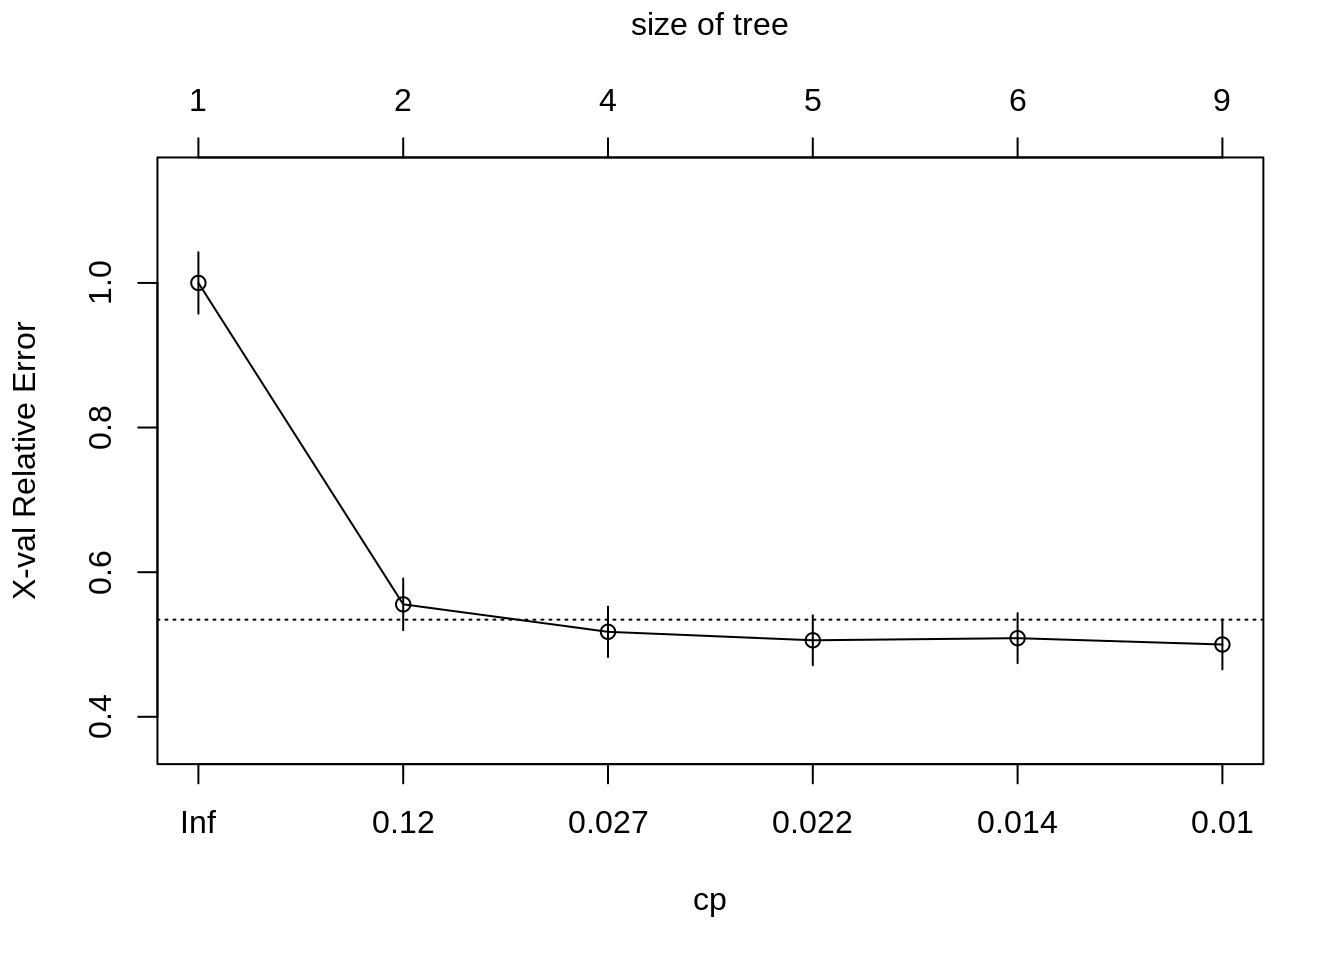
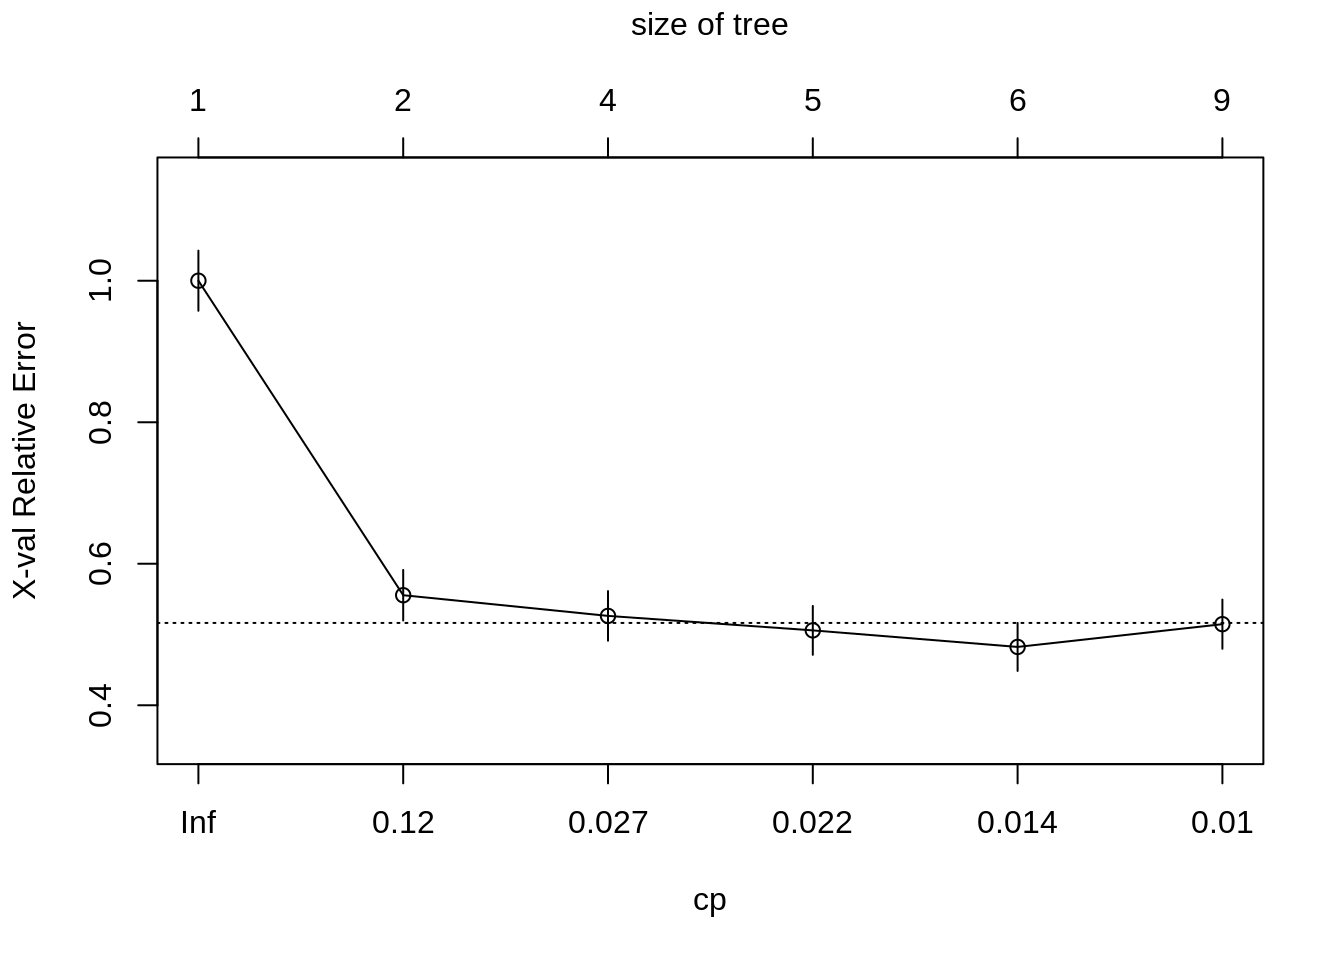
Deploy lebebr01/stat_thinking to github.com/lebebr01/stat_thinking.git:master

diff --git a/docs/descriptive-statistics-numerically-describing-the-sample-data.html b/docs/descriptive-statistics-numerically-describing-the-sample-data.html
@@ -190,65 +190,10 @@ code > span.in { color: #60a0b0; font-weight: bold; font-style: italic; } /* Inf
 <p>Data visualization is often the first step on the statistical journey to explore a research question. However, this is usually not where the journey stops, instead additional analyses are often performed to learn more about the trends and structure in the data. In this chapter we will learn about methods that useful for numerically summarizing a sample of data. These methods are commonly referred to as <em>descriptive statistics</em>.</p>
 <p>We will again use the data provided in the file <em>College-scorecard-clean.csv</em> to examine admissions rates for 2,019 institutions of higher education. As in the previous chapter, before we begin the analysis, we will load several packages that include functions we will use in the chapter. We also import the College Scorecard data using the <code>read_csv()</code> function.</p>
 <div class="sourceCode"><pre class="sourceCode r"><code class="sourceCode r"><span class="co"># Load packages</span>
-<span class="kw">library</span>(tidyverse)</code></pre></div>
-<pre><code>## ── Attaching packages ────────────────────────────────── tidyverse 1.2.1 ──</code></pre>
-<pre><code>## ✔ ggplot2 3.2.1     ✔ purrr   0.3.2
-## ✔ tibble  2.1.3     ✔ dplyr   0.8.3
-## ✔ tidyr   1.0.0     ✔ stringr 1.4.0
-## ✔ readr   1.3.1     ✔ forcats 0.4.0</code></pre>
-<pre><code>## ── Conflicts ───────────────────────────────────── tidyverse_conflicts() ──
-## ✖ dplyr::filter() masks stats::filter()
-## ✖ dplyr::lag()    masks stats::lag()</code></pre>
-<div class="sourceCode"><pre class="sourceCode r"><code class="sourceCode r"><span class="kw">library</span>(ggformula)</code></pre></div>
-<pre><code>## Loading required package: ggstance</code></pre>
-<pre><code>## 
-## Attaching package: &#39;ggstance&#39;</code></pre>
-<pre><code>## The following objects are masked from &#39;package:ggplot2&#39;:
-## 
-##     geom_errorbarh, GeomErrorbarh</code></pre>
-<pre><code>## 
-## New to ggformula?  Try the tutorials: 
-##  learnr::run_tutorial(&quot;introduction&quot;, package = &quot;ggformula&quot;)
-##  learnr::run_tutorial(&quot;refining&quot;, package = &quot;ggformula&quot;)</code></pre>
-<div class="sourceCode"><pre class="sourceCode r"><code class="sourceCode r"><span class="kw">library</span>(mosaic)</code></pre></div>
-<pre><code>## Loading required package: lattice</code></pre>
-<pre><code>## Loading required package: mosaicData</code></pre>
-<pre><code>## Loading required package: Matrix</code></pre>
-<pre><code>## 
-## Attaching package: &#39;Matrix&#39;</code></pre>
-<pre><code>## The following objects are masked from &#39;package:tidyr&#39;:
-## 
-##     expand, pack, unpack</code></pre>
-<pre><code>## Registered S3 method overwritten by &#39;mosaic&#39;:
-##   method                           from   
-##   fortify.SpatialPolygonsDataFrame ggplot2</code></pre>
-<pre><code>## 
-## The &#39;mosaic&#39; package masks several functions from core packages in order to add 
-## additional features.  The original behavior of these functions should not be affected by this.
-## 
-## Note: If you use the Matrix package, be sure to load it BEFORE loading mosaic.</code></pre>
-<pre><code>## 
-## Attaching package: &#39;mosaic&#39;</code></pre>
-<pre><code>## The following object is masked from &#39;package:Matrix&#39;:
-## 
-##     mean</code></pre>
-<pre><code>## The following objects are masked from &#39;package:dplyr&#39;:
-## 
-##     count, do, tally</code></pre>
-<pre><code>## The following object is masked from &#39;package:purrr&#39;:
-## 
-##     cross</code></pre>
-<pre><code>## The following object is masked from &#39;package:ggplot2&#39;:
-## 
-##     stat</code></pre>
-<pre><code>## The following objects are masked from &#39;package:stats&#39;:
-## 
-##     binom.test, cor, cor.test, cov, fivenum, IQR, median,
-##     prop.test, quantile, sd, t.test, var</code></pre>
-<pre><code>## The following objects are masked from &#39;package:base&#39;:
-## 
-##     max, mean, min, prod, range, sample, sum</code></pre>
-<div class="sourceCode"><pre class="sourceCode r"><code class="sourceCode r"><span class="kw">library</span>(statthink)
+<span class="kw">library</span>(tidyverse)
+<span class="kw">library</span>(ggformula)
+<span class="kw">library</span>(mosaic)
+<span class="kw">library</span>(statthink)
 
 <span class="co"># Set theme for plots</span>
 <span class="kw">theme_set</span>(<span class="kw">theme_statthinking</span>())
@@ -257,28 +202,9 @@ code > span.in { color: #60a0b0; font-weight: bold; font-style: italic; } /* Inf
 colleges &lt;-<span class="st"> </span><span class="kw">read_csv</span>(
   <span class="dt">file =</span> <span class="st">&quot;https://raw.githubusercontent.com/lebebr01/statthink/master/data-raw/College-scorecard-clean.csv&quot;</span>, 
   <span class="dt">guess_max =</span> <span class="dv">10000</span>
-  )</code></pre></div>
-<pre><code>## Parsed with column specification:
-## cols(
-##   instnm = col_character(),
-##   city = col_character(),
-##   stabbr = col_character(),
-##   preddeg = col_character(),
-##   region = col_character(),
-##   locale = col_character(),
-##   adm_rate = col_double(),
-##   actcmmid = col_double(),
-##   ugds = col_double(),
-##   costt4_a = col_double(),
-##   costt4_p = col_double(),
-##   tuitionfee_in = col_double(),
-##   tuitionfee_out = col_double(),
-##   debt_mdn = col_double(),
-##   grad_debt_mdn = col_double(),
-##   female = col_double(),
-##   bachelor_degree = col_double()
-## )</code></pre>
-<div class="sourceCode"><pre class="sourceCode r"><code class="sourceCode r"><span class="co"># View first six cases</span>
+  )
+
+<span class="co"># View first six cases</span>
 <span class="kw">head</span>(colleges)</code></pre></div>
 <pre><code>## # A tibble: 6 x 17
 ##   instnm city  stabbr preddeg region locale adm_rate actcmmid  ugds

diff --git a/docs/classification.html b/docs/classification.html
@@ -324,10 +324,10 @@ titanic &lt;-<span class="st"> </span><span class="kw">bind_rows</span>(titanic_
 ##         CP nsplit rel error  xerror     xstd
 ## 1 0.444444      0   1.00000 1.00000 0.042446
 ## 2 0.030702      1   0.55556 0.55556 0.035750
-## 3 0.023392      3   0.49415 0.51754 0.034823
+## 3 0.023392      3   0.49415 0.52632 0.035043
 ## 4 0.020468      4   0.47076 0.50585 0.034524
-## 5 0.010234      5   0.45029 0.50877 0.034599
-## 6 0.010000      8   0.41813 0.50000 0.034372</code></pre>
+## 5 0.010234      5   0.45029 0.48246 0.033904
+## 6 0.010000      8   0.41813 0.51462 0.034749</code></pre>
 <div class="sourceCode"><pre class="sourceCode r"><code class="sourceCode r"><span class="kw">plotcp</span>(class_tree)</code></pre></div>
 <p><img src="05-classification_files/figure-html/unnamed-chunk-6-1.png" width="672" /></p>
 <div class="sourceCode"><pre class="sourceCode r"><code class="sourceCode r">prune_class_tree &lt;-<span class="st"> </span><span class="kw">prune</span>(class_tree, <span class="dt">cp =</span> .<span class="dv">02</span>)

diff --git a/docs/03-descriptive.md b/docs/03-descriptive.md
@@ -9,135 +9,8 @@ We will again use the data provided in the file *College-scorecard-clean.csv* to
 ```r
 # Load packages
 library(tidyverse)
-```
-
-```
-## ── Attaching packages ────────────────────────────────── tidyverse 1.2.1 ──
-```
-
-```
-## ✔ ggplot2 3.2.1     ✔ purrr   0.3.2
-## ✔ tibble  2.1.3     ✔ dplyr   0.8.3
-## ✔ tidyr   1.0.0     ✔ stringr 1.4.0
-## ✔ readr   1.3.1     ✔ forcats 0.4.0
-```
-
-```
-## ── Conflicts ───────────────────────────────────── tidyverse_conflicts() ──
-## ✖ dplyr::filter() masks stats::filter()
-## ✖ dplyr::lag()    masks stats::lag()
-```
-
-```r
 library(ggformula)
-```
-
-```
-## Loading required package: ggstance
-```
-
-```
-## 
-## Attaching package: 'ggstance'
-```
-
-```
-## The following objects are masked from 'package:ggplot2':
-## 
-##     geom_errorbarh, GeomErrorbarh
-```
-
-```
-## 
-## New to ggformula?  Try the tutorials: 
-## 	learnr::run_tutorial("introduction", package = "ggformula")
-## 	learnr::run_tutorial("refining", package = "ggformula")
-```
-
-```r
 library(mosaic)
-```
-
-```
-## Loading required package: lattice
-```
-
-```
-## Loading required package: mosaicData
-```
-
-```
-## Loading required package: Matrix
-```
-
-```
-## 
-## Attaching package: 'Matrix'
-```
-
-```
-## The following objects are masked from 'package:tidyr':
-## 
-##     expand, pack, unpack
-```
-
-```
-## Registered S3 method overwritten by 'mosaic':
-##   method                           from   
-##   fortify.SpatialPolygonsDataFrame ggplot2
-```
-
-```
-## 
-## The 'mosaic' package masks several functions from core packages in order to add 
-## additional features.  The original behavior of these functions should not be affected by this.
-## 
-## Note: If you use the Matrix package, be sure to load it BEFORE loading mosaic.
-```
-
-```
-## 
-## Attaching package: 'mosaic'
-```
-
-```
-## The following object is masked from 'package:Matrix':
-## 
-##     mean
-```
-
-```
-## The following objects are masked from 'package:dplyr':
-## 
-##     count, do, tally
-```
-
-```
-## The following object is masked from 'package:purrr':
-## 
-##     cross
-```
-
-```
-## The following object is masked from 'package:ggplot2':
-## 
-##     stat
-```
-
-```
-## The following objects are masked from 'package:stats':
-## 
-##     binom.test, cor, cor.test, cov, fivenum, IQR, median,
-##     prop.test, quantile, sd, t.test, var
-```
-
-```
-## The following objects are masked from 'package:base':
-## 
-##     max, mean, min, prod, range, sample, sum
-```
-
-```r
 library(statthink)
 
 # Set theme for plots
@@ -148,32 +21,7 @@ colleges <- read_csv(
   file = "https://raw.githubusercontent.com/lebebr01/statthink/master/data-raw/College-scorecard-clean.csv", 
   guess_max = 10000
   )
-```
 
-```
-## Parsed with column specification:
-## cols(
-##   instnm = col_character(),
-##   city = col_character(),
-##   stabbr = col_character(),
-##   preddeg = col_character(),
-##   region = col_character(),
-##   locale = col_character(),
-##   adm_rate = col_double(),
-##   actcmmid = col_double(),
-##   ugds = col_double(),
-##   costt4_a = col_double(),
-##   costt4_p = col_double(),
-##   tuitionfee_in = col_double(),
-##   tuitionfee_out = col_double(),
-##   debt_mdn = col_double(),
-##   grad_debt_mdn = col_double(),
-##   female = col_double(),
-##   bachelor_degree = col_double()
-## )
-```
-
-```r
 # View first six cases
 head(colleges)
 ```

diff --git a/docs/05-classification.md b/docs/05-classification.md
@@ -249,10 +249,10 @@ printcp(class_tree)
 ##         CP nsplit rel error  xerror     xstd
 ## 1 0.444444      0   1.00000 1.00000 0.042446
 ## 2 0.030702      1   0.55556 0.55556 0.035750
-## 3 0.023392      3   0.49415 0.51754 0.034823
+## 3 0.023392      3   0.49415 0.52632 0.035043
 ## 4 0.020468      4   0.47076 0.50585 0.034524
-## 5 0.010234      5   0.45029 0.50877 0.034599
-## 6 0.010000      8   0.41813 0.50000 0.034372
+## 5 0.010234      5   0.45029 0.48246 0.033904
+## 6 0.010000      8   0.41813 0.51462 0.034749
 ```
 
 ```r
